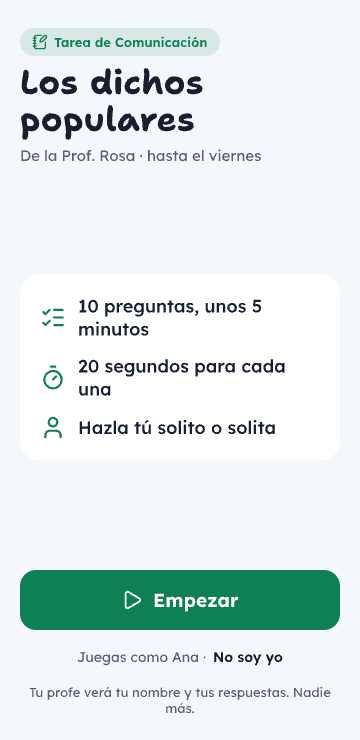
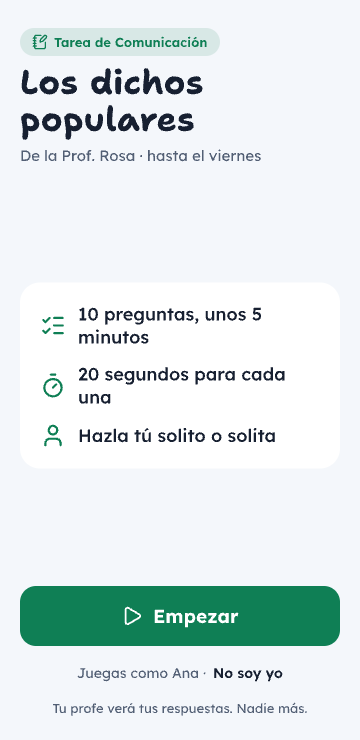
Revisar tareas encaja en el ciclo: salón, alumno de la lista e intento por desempeño
El juego se asigna como tarea a un salón (la lista se pega una vez), el alumno elige su
nombre, cuenta el primer intento y la revisión es por desempeño con el paso a reforzar.

diff --git a/obsidian/TAREAS.md b/obsidian/TAREAS.md
@@ -3,11 +3,13 @@ actualizado: 2026-10-18
 estado: propuesta, falta que Harold apruebe el flujo y el prototipo
 ---
 
-# Tareas que se corrigen solas
+# Revisar tareas (problema 3 del ciclo)
 
-> Sesión de producto, sin código. Sale de la entrevista con Lucho y Yessly ([[entrevistas/2026-10-18-lucho-y-yessly]],
-> [[MATERIALES]] §7). Reusa los juegos (`apps/web/src/juegos`) y los resultados (`api/resultados.ts`).
-> Prototipo: capturas en `demos/tareas/` (1 mandar como tarea, 2 el alumno la abre, 3 pregunta con reloj, 4 entregada, 5 tarea revisada) y las pantallas de pen.dev en `demos/tareas/pantallas.json`, para pegarlas en `demos/demo-pitch.pen`.
+> Sesión de producto, sin código. Encaja en el mapa nuevo (Clerk + Neon): el ciclo **planear → preparar → practicar →
+> revisar → reforzar**, con salón, alumno de la lista, material con tipo, tarea e intento por desempeño. Sale de la
+> entrevista con Lucho y Yessly ([[entrevistas/2026-10-18-lucho-y-yessly]], [[MATERIALES]] §7).
+> Prototipo: capturas en `demos/tareas/` (1, 1b, 2, 2b, 3, 4, 5) y las pantallas de pen.dev en
+> `demos/tareas/pantallas.json`.
 
 ## 1. El problema
 
@@ -15,135 +17,114 @@ estado: propuesta, falta que Harold apruebe el flujo y el prototipo
   aprendió el niño.
 - **Revisar no alcanza.** Lucho pierde "unos 10, 15 minutos de la hora total… a veces ni siquiera reviso
   detalladamente, solamente pongo check, check, check". Tiene 1 h 20 min por curso y 5 cursos al día.
-- **Necesita algo que mostrar.** Pidió "algún reporte o alguna confirmación de que ha concluido, de que llegó a
-  aprender" para cuando vienen a supervisar, y el seguimiento por alumno del colegiado.
-- **Juegos como tarea, sí:** casi todas las familias tienen un celular y "no lo pueden hacer con inteligencia
-  artificial". Pero hoy un juego no es una tarea: no tiene fecha, guarda el **mejor** puntaje (premia reintentar
-  hasta acertar) y no dice **qué pregunta falló** cada uno.
+- **Necesita algo que mostrar:** "algún reporte o alguna confirmación de que ha concluido, de que llegó a aprender"
+  para la supervisión, y un PDF por alumno con su anotación para el colegiado y la boleta.
+- **Juegos como tarea, sí** ("no lo pueden hacer con inteligencia artificial"), pero hoy un juego no es una tarea:
+  no tiene salón ni fecha, guarda el **mejor** puntaje (premia reintentar hasta acertar), el niño escribe su nombre
+  como quiere y no se sabe **en qué desempeño** falló.
 
-**La apuesta:** una tarea corta en el celular, con reloj por pregunta. No da tiempo de copiarla a ChatGPT, se corrige
-sola y el docente recibe la lista revisada y qué reforzar.
-
-## Dónde vive en el producto
-
-No es una herramienta nueva ni está en [[VISION]] ni en [[MAPA]]. Es **una forma de mandar el juego que ya existe**,
-para no sumar pantallas ni palabras nuevas:
-
-- **Se manda desde Juego web (pantalla 09):** en la ventana "Manda el juego a las familias" hay dos opciones,
-  **"Para practicar"** (lo de hoy) y **"Como tarea"**. No hay un botón "Dejar tarea" aparte ni un menú "Tareas".
-- **Se revisa en Resultados de juegos (pantalla 12):** las tareas salen primero, con la etiqueta "Tarea" y "18 de 30
-  entregaron". Al abrir una, se ve ya revisada.
-- **El alumno ve lo mismo que hoy** (`/j/CODIGO`, su nombre una vez), con portada de tarea y sin poder volver atrás.
+**La apuesta:** practicar en el celular con reloj, de modo que no dé tiempo de copiarla a ChatGPT. El intento se
+corrige solo y el docente lo ve **revisado por desempeño**, con el paso siguiente a un clic: reforzar.
 
 ## 2. Para quién
 
-- **Docente de primaria** (público o privado) que no sabe de tecnología, usa laptop y no va a leer instrucciones.
-  Ya manda cosas al grupo de WhatsApp de las familias: eso es todo lo que tiene que saber hacer.
-- **Alumno de 1.º a 6.º** en el celular de su papá o mamá, muchas veces dentro de WhatsApp, Android de gama baja.
-  Los de 1.º y 2.º recién leen.
-- **Papás**, que reciben el link y prestan el celular. Si solo ven "juegos", dicen que "el profesor solamente los
-  manda a jugar": el mensaje tiene que decir que **es la tarea**.
+- **Docente de primaria** que no sabe de tecnología, usa laptop y no lee instrucciones. Ya manda cosas al grupo de
+  WhatsApp de las familias.
+- **Alumno de 1.º a 6.º** en el celular de su papá o mamá, muchas veces dentro de WhatsApp. Los de 1.º y 2.º recién
+  leen.
+- **Papás:** si solo ven "juegos", dicen que "el profesor solamente los manda a jugar". El mensaje dice que **es la
+  tarea**.
 
-## 3. Cómo se evita la trampa (sin prometer lo que no cumple)
+Prioridad, dicha por Lucho: primero exámenes y su resolución, después tareas. Por eso, en el orden del mapa, revisar
+va tercero, después de cuentas y salones.
 
-| Truco | Qué corta | Ya existe |
+## 3. Dónde encaja en el ciclo
+
+| Paso | Qué hace el docente | Objeto |
 | --- | --- | --- |
-| **Reloj por pregunta** (30 s en 1.º–2.º, 20 s en 3.º–4.º, 15 s en 5.º–6.º) | Copiar la pregunta a ChatGPT y pegar la respuesta | Concurso ya tiene reloj |
-| **Cuenta la primera vez** (después puede practicar, la nota no cambia) | Reintentar hasta acertar | Hoy guarda el mejor: cambia |
-| **Cada alumno, sus números** (cálculo generado con su semilla) y orden y opciones barajados | Pasarse las respuestas por el grupo | Sí |
-| **No se pausa ni se vuelve atrás**; si sale de la app, el reloj sigue | Salir a buscar la respuesta | Casi: falta que el reloj siga |
+| Preparar | Elige un juego del tema (ya existe) | `MATERIAL` tipo juego |
+| Practicar | "Como tarea" → "Para 4.º B" → WhatsApp | `TAREA` (material + salón + segundos + vence) |
+| Practicar | El niño elige su nombre y juega con reloj | `INTENTO` (alumno, puntaje, por desempeño, segundos) |
+| **Revisar** | Abre la tarea en su salón: ya está corregida | Lee los `INTENTO` de la tarea |
+| Reforzar | "Retomarlo en la próxima sesión" o "Repasar en el proyector" | El desempeño que falló más de la mitad |
 
-**Lo que no resuelve:** que la haga el hermano mayor o el papá. No hay forma honesta de saberlo desde un celular
-prestado. Se dice así al docente y, en una versión siguiente, "Comprobar en clase": 3 minutos de Concurso
-proyectado con el mismo tema, para ver si el aula responde como en la casa.
+## 4. Cómo se evita la trampa (sin prometer lo que no cumple)
 
-## 4. Qué NO se hace
+- **Reloj por pregunta:** 30 s en 1.º–2.º, 20 s en 3.º–4.º y 15 s en 5.º–6.º. El Concurso ya lo tiene.
+- **Cuenta el primer intento.** Puede volver a practicar, pero la revisión toma el primero.
+- **Preguntas distintas por alumno:** el cálculo se genera con su semilla, y el orden y las opciones se barajan.
+- **El reloj no se pausa** si sale de la app.
+- **Elige su nombre de la lista:** se sabe quién fue y no hay "ana", "Ana P." y "anita".
 
-- **No detectamos IA ni vigilamos al niño:** nada de cámara, micrófono ni "modo examen" que bloquee el celular.
-- **No hay cuenta para el alumno:** solo su nombre, escrito una vez (como hoy en los juegos). Ver "Los datos del
-  alumno".
+**Lo que no resuelve:** que la haga el hermano mayor o el papá. Se dice así. Más adelante, "Comprobar en clase":
+3 minutos en el proyector con el mismo desempeño, para ver si el aula responde igual que en la casa.
+
+## 5. Qué NO se hace
+
+- **No detectamos IA ni vigilamos al niño:** nada de cámara, micrófono ni bloquear el celular.
+- **No hay cuenta para el alumno.** Elige su nombre de la lista que pegó el docente; no escribe ni entrega ningún
+  dato.
 - **No hay tareas abiertas** (redacción, procedimiento, foto del cuaderno): no se corrigen solas. Solo preguntas con
-  respuesta correcta (`Reto`) que tengan cita del desempeño del grado.
-- **No elige juego el docente en la tarea:** la tarea es siempre el Concurso (reloj, una respuesta por pregunta). Los
-  otros 16 juegos siguen siendo para practicar.
-- **No se convierte a AD/A/B/C ni se carga al SIAGIE** en esta versión: se muestran aciertos ("8 de 10"). Ver
-  decisiones abiertas.
-- **No hay lista de la clase** que el docente tenga que escribir: los nombres salen de quien entregó.
-- **No hay PDF por alumno para el colegiado** todavía: es lo siguiente, una vez que existan las entregas.
+  respuesta correcta (`Reto`) y con la cita del desempeño del grado.
+- **En la tarea no se elige el juego:** siempre es el Concurso (reloj, una respuesta por pregunta). Los otros juegos
+  siguen para practicar.
+- **No se pide el salón para preparar:** solo al asignar una tarea (recomendación del mapa).
+- **No se convierte a AD/A/B/C ni se carga al SIAGIE** en esta versión: se muestran aciertos.
 
-## 5. El flujo
+## 6. El flujo
 
-### Docente (laptop): dejar la tarea, 2 clics
+### Docente: asignar (pantallas 1 y 1b)
 
-1. **En Juego web toca "Mandar a las familias"**, como hoy.
-2. **En la ventana elige "Como tarea"** (al lado de "Para practicar"). Aparece todo ya armado, sin preguntas que
-   contestar:
-   - "10 preguntas · 20 segundos cada una · cuenta la primera vez".
-   - **Entregan hasta:** pasado mañana (default; se cambia con un toque en la fecha).
-   - El desempeño que trabaja, con la "i".
-   - Plegado: "Ver las 10 preguntas" (con "Quitar" en cada una: el docente decide).
-   - El mensaje para las familias, ya escrito: *"Tarea de Matemática para Ana y sus compañeros: 10 preguntas de
-     fracciones. Que la haga solito, toma 5 minutos. Es hasta el viernes."*
-3. **"Enviar por WhatsApp"** (botón grande). Abre WhatsApp con el mensaje y el link. También "Copiar link".
-   - **La primera vez** pide entrar con Google (Clerk), con una frase: "Para guardar las tareas de tus alumnos".
-     No antes: el docente prueba todo sin cuenta.
+1. En Juego web, **"Mandar a las familias"**, como hoy.
+2. Elige **"Como tarea"**, al lado de "Para practicar". Ya viene armada: "10 preguntas con reloj · 20 s · hasta el
+   vie 23", la fila **"Para 4.º B · 30 alumnos"**, el mensaje para las familias y la "i" con el desempeño.
+3. **"Asignar a 4.º B y enviar por WhatsApp".**
+   - **La primera vez** (1b): "¿Para qué salón es la tarea?". El grado viene del tema; escribe la sección y **pega
+     la lista** de su registro, Excel o WhatsApp, un nombre por línea. Se ve "30 alumnos" al instante. Solo nombres.
+   - **Si aún no tiene cuenta**, la pide ahí con Google (Clerk): "Para guardar las tareas de tus alumnos".
 
-### Alumno (celular del papá): hacerla, 1 toque
+### Alumno: hacerla (pantallas 2b, 2, 3 y 4)
 
-1. **Abre el link.** Portada: "Tarea de Matemática · Prof. Rosa · Fracciones". Si es la primera vez, "¿Cómo te
-   llamas?" (ya existe). Abajo: "Juegas como Ana · No soy yo".
-2. **"Empezar"**, con un aviso de una línea: "Tienes 20 segundos por pregunta. Hazla tú solito." Cuenta 3, 2, 1.
-3. **Preguntas con reloj** (el Concurso): letra grande, 4 botones de colores, barra de tiempo.
-4. **Fin:** "¡Listo! Tu profe ya recibió tu tarea. 8 de 10 ⭐⭐". Botón: "Practicar otra vez" (dice: "no cambia tu
-   nota").
-5. **Si vuelve a abrir el link:** "Ya entregaste tu tarea" y "Practicar". Si ya venció: "Esta tarea ya cerró", con
-   practicar igual.
+1. Abre el link y aparece **"¿Quién eres?"**: los nombres de su salón en botones grandes y un buscador. Los que ya
+   la hicieron dicen "ya la hizo". El celular lo recuerda para la próxima vez ("Juegas como Ana · No soy yo").
+2. **Portada:** "Tarea de Comunicación · Los dichos populares · de la Prof. Rosa · hasta el viernes", "10 preguntas,
+   unos 5 minutos · 20 segundos cada una · Hazla tú solito o solita" y **"Empezar"**.
+3. **Preguntas con reloj** (el Concurso).
+4. **Fin:** "¡Listo, Ana! Tu profe ya recibió tu tarea. 8 de 10". Debajo, "Practicar otra vez" y "Practicar no
+   cambia lo que recibió tu profe".
 
-### Docente (laptop): revisar, 0 clics para lo importante
+### Docente: revisar y reforzar (pantalla 5)
 
-1. **En el menú, "Resultados de juegos"**, como hoy. Las tareas salen primero, con la etiqueta "Tarea", "18 de 30
-   entregaron" y la fecha.
-2. **Abre una tarea y ya está revisada:**
-   - Arriba, **"Reforzar"**: las 2 preguntas que más fallaron, con su desempeño ("i"). Botón "Repasar en clase":
-     abre el Concurso en el proyector con esas preguntas.
-   - **La lista**: alumno, aciertos, cuánto tardó, cuándo. Ordenada por aciertos; los que no llegaron a la mitad,
-     marcados para ayudarlos.
-   - "Mostrar podio": los 5 mejores, para la pizarra (nunca muestra al último).
-   - Un toque en un alumno: qué pregunta falló y qué respondió.
+1. **Inicio** muestra "1 tarea por revisar" y qué reforzar (pantalla del mapa). Entra a **Mis salones → 4.º B →
+   la tarea**.
+2. **Ya está revisada:**
+   - "24 de 30 entregaron", "7 de 10 en promedio" y "4 no llegaron a la mitad".
+   - **"Para reforzar: más de la mitad falló este desempeño"**, con la cita oficial y la pregunta que más costó
+     (y qué respondieron: "la tomaron al pie de la letra"). Botones: **"Retomarlo en la próxima sesión"** (va a
+     Planear) y **"Repasar en el proyector"**.
+   - **La lista:** alumno, aciertos, cuánto tardó y cuándo. Los que no llegaron a la mitad, marcados. "6 no la
+     hicieron" con sus nombres y "Recordar por WhatsApp", algo que solo se puede saber con la lista del salón.
+   - **"Mostrar podio en la pizarra"** (los 5 mejores; nunca el último) y **"Reporte por alumno (PDF)"** para el
+     colegiado.
 
-## Los datos del alumno (la tensión con la visión)
+## 7. Datos (sobre el modelo del mapa)
 
-[[VISION]] dice: "No pide cuenta ni datos a los alumnos". Hoy Resultados de juegos ya guarda el nombre que escribe
-el niño y su puntaje, y la tarea suma **qué respondió en cada pregunta**. Propuesta para cumplir el espíritu de esa
-regla:
+- `TAREA`: `codigo`, `material_id` (el juego, con su contenido y desempeños), `salon_id`, `segundos_por_pregunta`
+  (sale del grado) y `vence`.
+- `INTENTO`: `tarea_id`, `alumno_id`, `puntaje`, `segundos`, `por_desempeno` (aciertos y total por desempeño) y su
+  número de intento: **revisar lee solo el primero**. Propuesta: sumar `respuestas` (jsonb: pregunta, elegida,
+  correcta) para mostrar "lo que más costó" y "qué respondieron"; sin eso, solo se ve el desempeño.
+- **Alumno sin datos:** solo el nombre que pegó el docente. La lista es suya, como su registro; el niño no entrega
+  nada. Se puede borrar el salón con todo.
+- Pendiente de revisar: la Ley 29733 de datos personales y los menores de edad (no verificado si aplica a una lista
+  de nombres del docente).
+- Los resultados de "Para practicar" siguen en `api/resultados.ts` hasta migrarlos a `INTENTO`.
 
-- **Sin cuenta, sin correo, sin DNI, sin teléfono, sin foto.** Solo el nombre que el niño escribe (puede ser solo el
-  nombre de pila) y sus respuestas a esa tarea.
-- **Solo lo ve su docente**, dentro de su cuenta. Nunca otro docente, nunca la biblioteca, nunca la IA.
-- **Se borra solo** al cerrar el año escolar, y el docente puede borrar una tarea con sus entregas.
-- **Los papás saben qué se guarda:** la portada de la tarea lo dice en una línea ("Tu profe verá tu nombre y tus
-  respuestas").
-- Pendiente de revisar: la ley peruana de datos personales (Ley 29733) pide reglas especiales para datos de menores.
-  No está verificado si el nombre y las respuestas de la tarea necesitan el consentimiento de los papás.
+## 8. Decisiones abiertas (Harold)
 
-Cambio propuesto en [[VISION]] (decide Harold): "No pide cuenta a los alumnos. Solo su nombre, que ve únicamente su
-docente."
-
-## 6. Qué cambia por debajo (para cuando se apruebe)
-
-- **Clerk** para el docente (después del evento: [[MVP]] deja fuera las cuentas hasta entonces): las tareas viven en su cuenta, no en el navegador (hoy la clave de resultados se pierde
-  si borra el navegador o cambia de laptop).
-- **Neon (Postgres)** en lugar de Blob para tareas y entregas: sin el tope de 2.000 escrituras al mes, y cada
-  entrega guarda cada respuesta. Tres tablas: `docentes` (id de Clerk), `tareas` (código, tema, grado, desempeños
-  citados, preguntas, vence), `entregas` (tarea, id y nombre del alumno, respuestas, aciertos, segundos; una sola
-  por alumno: la primera).
-- **Juego:** Concurso en "modo tarea": manda la primera partida completa, el reloj no se pausa al salir. Los juegos
-  compartidos y `api/resultados.ts` siguen igual para practicar.
-
-## 7. Decisiones abiertas (Harold)
-
-1. **¿AD/A/B/C o aciertos?** Primaria califica con escala literal. Propuesta: v1 aciertos; v2 el docente pone los
-   cortes una vez ("de 9 a 10 es AD").
-2. **¿Cuántas preguntas?** Propuesta: 10 (≈ 5 minutos). Un papá presta el celular poco rato.
-3. **¿Y el hermano mayor?** Propuesta: decirlo claro y sumar "Comprobar en clase" después.
-4. **¿Cambiamos la frase de [[VISION]]** sobre los datos del alumno, como se propone arriba?
+1. **¿AD/A/B/C o aciertos?** Propuesta: aciertos en v1; después, que el docente fije los cortes una vez.
+2. **¿Cuántas preguntas?** Propuesta: 10 (≈ 5 minutos).
+3. **¿Sumamos `respuestas` a `INTENTO`?** Propuesta: sí. Sin eso, "qué reforzar" se queda en el desempeño, y un tema
+   suele tener uno o dos.
+4. **¿"Ya la hizo" en la lista del alumno?** Evita que dos niños elijan el mismo nombre, pero lo ve todo el salón.
+   Propuesta: sí, sin mostrar puntajes.

diff --git a/obsidian/ESTADO.md b/obsidian/ESTADO.md
@@ -22,7 +22,7 @@ Herramientas de IA para docentes del Perú (Hack the Andes 2026, repo `Hecze/sup
 - **Banco de contenido, 4.º de primaria completo** (`apps/web/src/banco`, ver su README): los 384 temas del currículo de 4.º (10 áreas) traen palabras, 8 preguntas, 6 parejas y 2 canciones propias con ritmos del Perú, cada tema con la cita letra por letra de su desempeño. Al crear un tema de 4.º ya hay 13–17 juegos y al menos 2 canciones, gratis y sin esperar. Las canciones suenan con Lyria vía OpenRouter (`api/audio.ts`) y el audio se guarda en Blob la primera vez. `npm run typecheck` falla si un tema de 4.º tiene menos de 2 juegos o 2 canciones, o si una cita no cuadra.
 - **Exámenes listos, 4.º de primaria completo** (`apps/web/src/examenes`, ver su README): cada uno de los 384 temas abre "Examen" con su examen armado, gratis y sin esperar, para imprimir en blanco y negro: retos con estrellas para pintar y autoevaluación con caritas. En Matemática, 109 tipos de pregunta con dibujos de la vida real (dinero del Perú, ábaco, Base Diez, recta numérica, la bodega, balanzas, relojes, cenefas, croquis, pictogramas, gráficos de barras…), al menos 2 por tema y cada uno con su cita de 4.º, cuyos números cambian con «Otra versión»; en todos los cursos, preguntas del banco (marcar, ¿tiene razón?, unir, completar). «Fila A y B» para que no se copien, cambiar o quitar una pregunta, elegir cuántas de cada tipo, PDF y PDF de respuestas con lo que evalúa cada reto citado del currículo. Las respuestas se ven en la pantalla con una X y nunca salen al imprimir. También en Biblioteca → "Exámenes listos". "Adaptar mi examen" (sube el suyo) queda arriba a la derecha. `npm run typecheck` arma cientos de versiones al azar por tema y falla si alguna sale rota o si una cita no cuadra.
 - **Canciones que ya existen:** 206 canciones de YouTube para 1.º a 6.º de primaria (Comunicación, Matemática, Ciencia y Tecnología, Personal Social, Inglés, Arte y Cultura, Educación Física) en `apps/web/src/canciones/canciones.json`. Cada grado cita letra por letra un desempeño de su área (lo verifica `npm run typecheck`); la pantalla de Canción las muestra primero, con Ver, Copiar link y la «i».
-- **Tareas que se corrigen solas (propuesta, sin código):** shaping, flujo y prototipo en `obsidian/TAREAS.md` y `demos/tareas/` (5 capturas + pantallas de pen.dev en JSON). La tarea es el Concurso con reloj por pregunta, cuenta la primera vez, y el docente recibe la lista revisada y qué reforzar. Por debajo: Clerk (docente) y Neon (tareas y entregas).
+- **Revisar tareas (problema 3 del ciclo, propuesta sin código):** `obsidian/TAREAS.md` y `demos/tareas/` (7 capturas). Encaja en el mapa Clerk + Neon: el juego se asigna "como tarea" a un salón, el alumno elige su nombre de la lista y juega con reloj, cuenta el primer intento y el docente lo ve revisado por desempeño, con "Retomarlo en la próxima sesión".
 
 ## Siguiente paso
 - **Entrega (domingo 18, 9:00):** `proyecto.md` listo en la raíz; presentación lista en `presentacion/` (falta compartirla por link y llenar las cifras de tracción; lista de espera en 1). Aún no se entrega: `andes project submit --file ./proyecto.md`.
@@ -30,7 +30,7 @@ Herramientas de IA para docentes del Perú (Hack the Andes 2026, repo `Hecze/sup
 - Backend `/api` con Claude (ficha, letra, examen adaptado, juego): contratos en `apps/web/src/api/types.ts`, endpoints en el README. Cada endpoint debe recibir `ficha.curriculo.desempenos` y devolver, por ítem, la cita textual del desempeño que trabaja (validada contra `packages/curriculo`), para que canción, examen y preguntas del tema tengan el mismo icono "i" que los juegos de cálculo.
 - Banco para los demás grados de primaria (mismo formato, ver `apps/web/src/banco/README.md`): con él cada tema tiene juegos, canciones y examen listo; los tipos de Matemática con dibujos necesitan las citas de ese grado. Persistencia (biblioteca, créditos), pictogramas ARASAAC.
 - Juegos: que `/api/juego` cree más preguntas de las que entran en una partida (hoy las del tema se repiten al reintentar; el cálculo ya es procedural), clasificar en grupos y, cuando haya cuentas, pasar la clave de resultados a la cuenta del docente.
-- **Tareas:** que Harold apruebe flujo y prototipo, y responda las 3 decisiones abiertas de `obsidian/TAREAS.md` (AD/A/B/C o aciertos, cuántas preguntas, el hermano mayor). Recién ahí se implementa (coordinar con la sesión `tareas-ludicas`, que quedó detenida).
+- **Tareas:** que Harold apruebe flujo y prototipo y responda las 4 decisiones de `obsidian/TAREAS.md` §8. Se construye después de cuentas y salones (orden del mapa); coordinar con la sesión `tareas-ludicas`.
 
 ## Riesgos
 - Hasta el 17-oct, en producción las funciones con IA (`ficha`, `juego`, `examen`, `cancion`) no cargaban (`FUNCTION_INVOCATION_FAILED`) por importar `./_ia` sin `.js`. Arreglado; `npm run typecheck` ahora lo marca (tsconfig de `api/` en NodeNext). Además necesitan `OPENROUTER_API_KEY` en Vercel.
